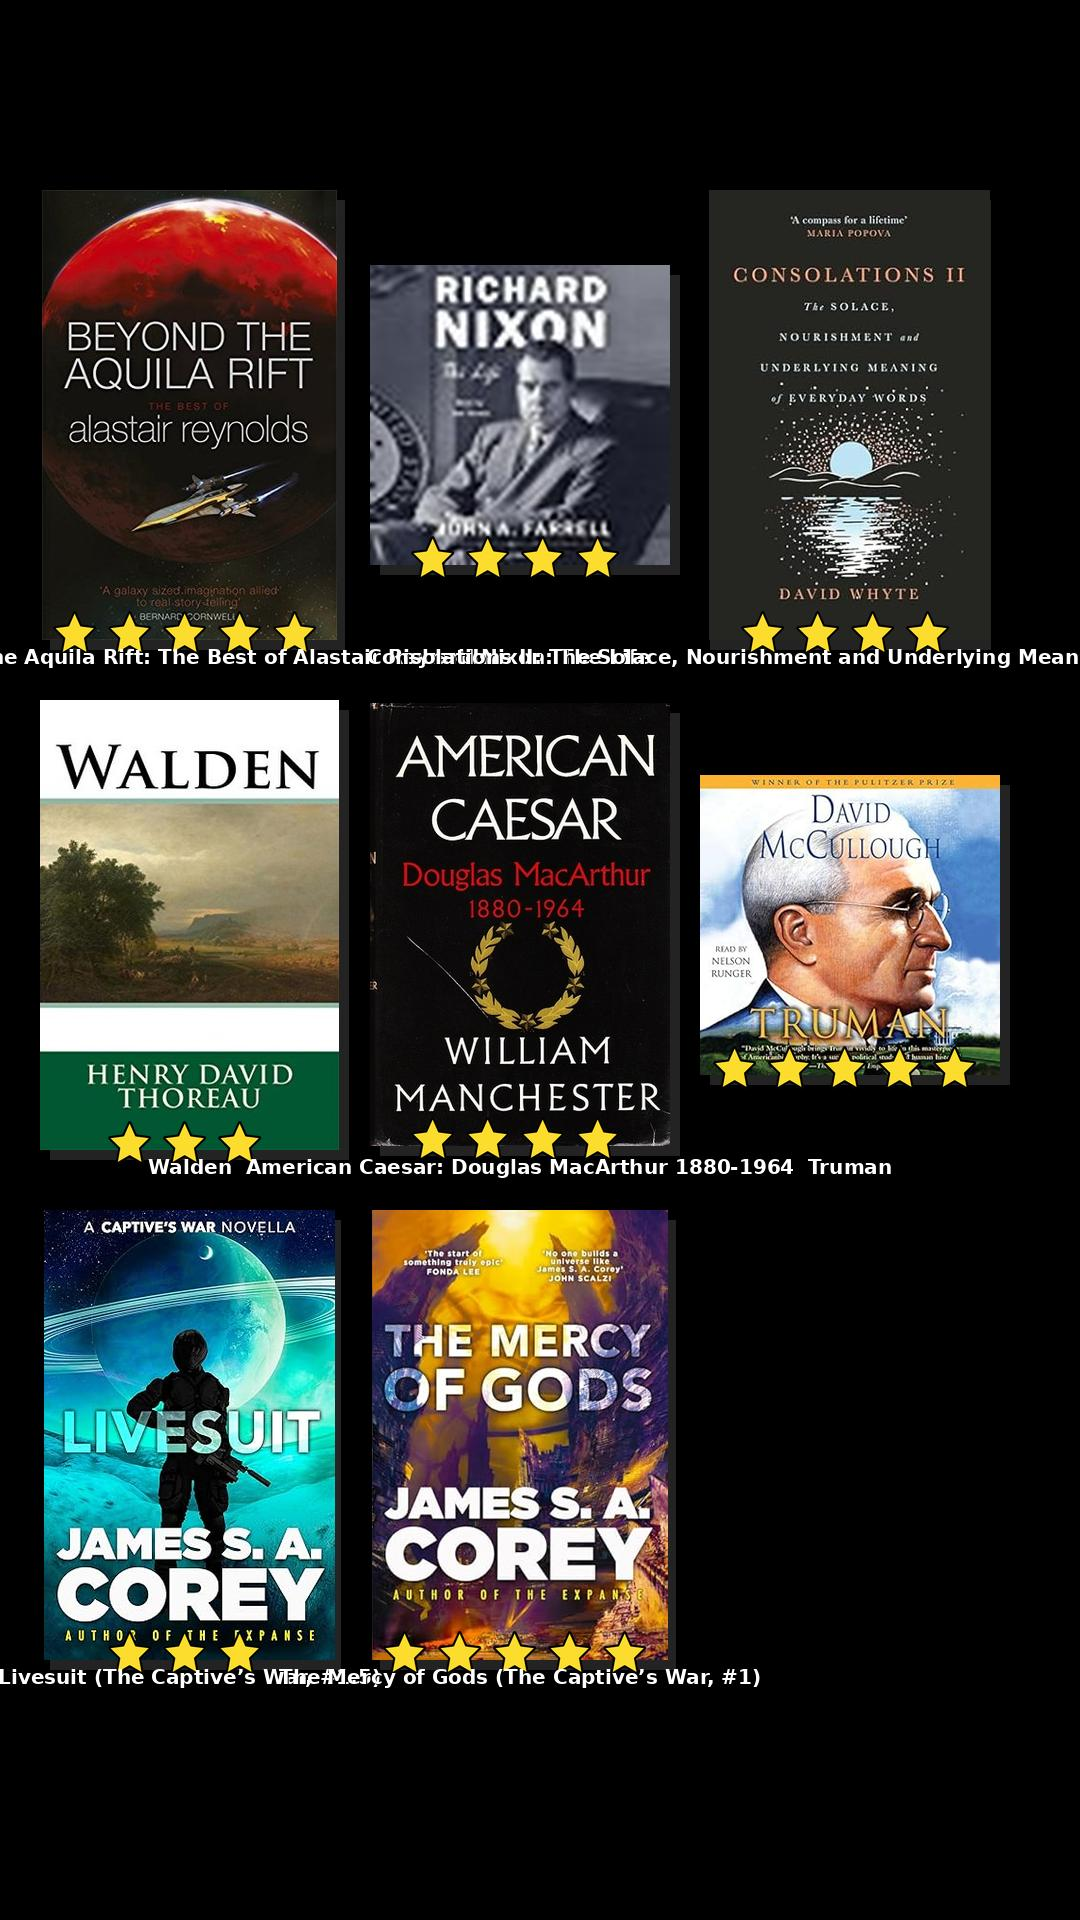
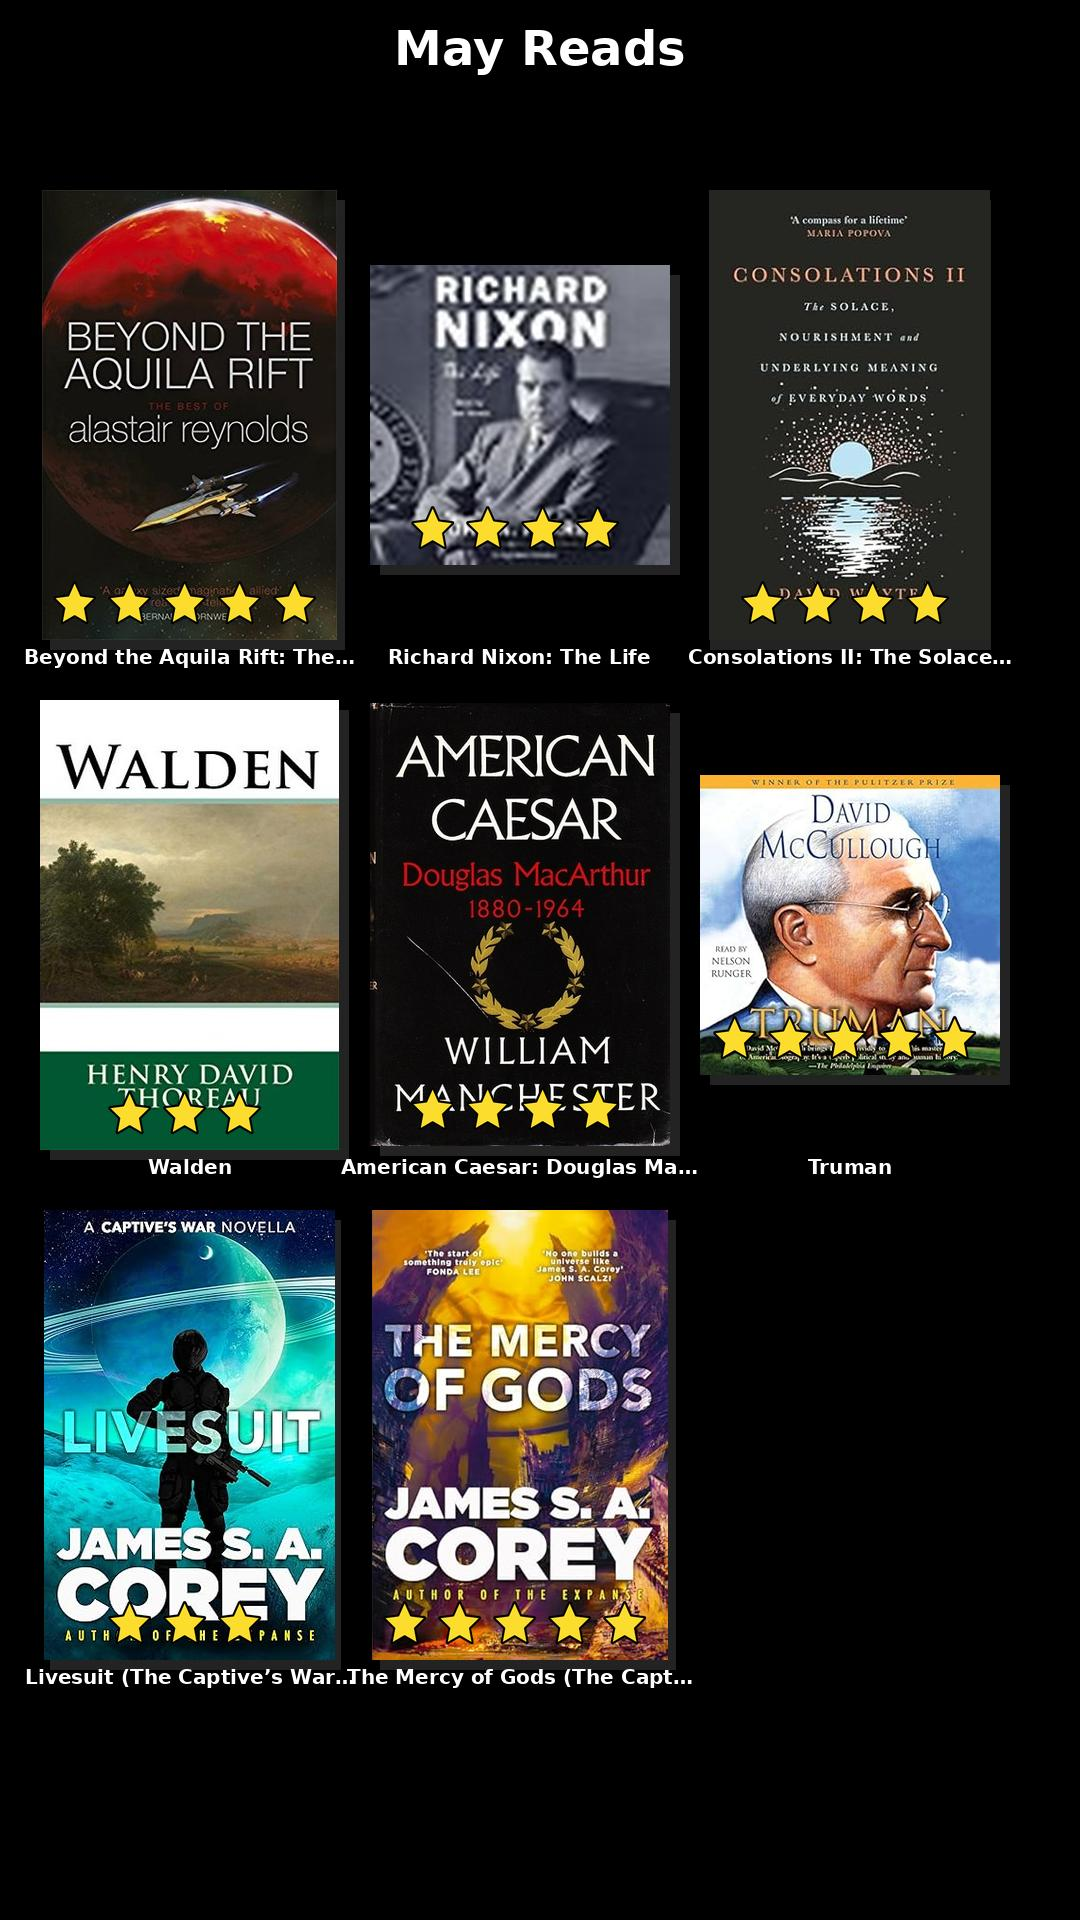
Simple web app is working

diff --git a/app.py b/app.py
@@ -9,7 +9,8 @@ from dateutil import parser as date_parser  # Add to requirements.txt
 from calendar import monthrange
 from PIL import Image, ImageDraw, ImageFont, ImageFilter
 import PIL
-import subprocess
+from collections import defaultdict
+
 
 # Configuration
 FEED_URL = os.getenv("GOODREADS_RSS_URL", "https://www.goodreads.com/review/list_rss/5672051?shelf=read")
@@ -58,6 +59,20 @@ def parse_feed(file_path):
     root = tree.getroot()
     return root.findall("channel/item")
 
+def group_books_by_month(items):
+    books_by_month = defaultdict(list)
+    for item in items:
+        user_read_at = item.findtext("user_read_at")
+        if not user_read_at:
+            continue
+        try:
+            read_date = date_parser.parse(user_read_at).replace(tzinfo=None)
+        except Exception:
+            continue
+        year, month = read_date.year, read_date.month
+        books_by_month[(year, month)].append(item)
+    return books_by_month
+
 def get_books_read_last_month(items):
     now = datetime.now()
     first_of_this_month = datetime(now.year, now.month, 1)
@@ -104,7 +119,7 @@ def download_cover_if_missing(item):
     else:
         print(f"Cover for '{book_title}' (ID: {book_id}) already exists.")
 
-def create_collage(books):
+def create_collage(books, year, month):
     canvas_width, canvas_height = 1080, 1920
     margin = 20
     padding = 30
@@ -216,10 +231,22 @@ def create_collage(books):
         # Foreground
         draw.text((title_x, title_y), title_text, font=title_font, fill="white")
 
+    # Add header title
+    header_text = f"{datetime(year, month, 1).strftime('%B')} Reads"
+    header_font_size = 48
+    try:
+        header_font = ImageFont.truetype("DejaVuSans-Bold.ttf", size=header_font_size)
+    except Exception:
+        header_font = ImageFont.load_default()
+
+    header_bbox = draw.textbbox((0, 0), header_text, font=header_font)
+    header_w = header_bbox[2] - header_bbox[0]
+    header_x = (canvas_width - header_w) // 2
+    draw.text((header_x + 1, margin + 1), header_text, font=header_font, fill="black")
+    draw.text((header_x, margin), header_text, font=header_font, fill="white")
+
     # Save the collage with YYYY-MM.jpg format for last month
-    now = datetime.utcnow()
-    last_month = now.replace(day=1) - timedelta(days=1)
-    collage_filename = f"{last_month.strftime('%Y-%m')}.jpg"
+    collage_filename = f"{year:04d}-{month:02d}.jpg"
     output_path = Path("collages") / collage_filename
     output_path.parent.mkdir(exist_ok=True)
 
@@ -231,14 +258,27 @@ def create_collage(books):
 # Run logic
 if __name__ == "__main__":
     feed_file = get_feed()
-
     items = parse_feed(feed_file)
     print(f"Feed file: {feed_file}")
 
-    books_last_month = get_books_read_last_month(items)
+    books_by_month = group_books_by_month(items)
 
-    print(f"Found {len(books_last_month)} books read last month.")
-    for book in books_last_month:
-        download_cover_if_missing(book)
+    all_books = [book for books in books_by_month.values() for book in books]
+    print(f"Total books with read dates: {len(all_books)}")
 
-    create_collage(books_last_month)
+    # Download covers (once per book)
+    seen_ids = set()
+    for book in all_books:
+        book_id = book.findtext("book_id")
+        if book_id and book_id not in seen_ids:
+            download_cover_if_missing(book)
+            seen_ids.add(book_id)
+
+    # Create a collage per month
+    for (year, month), books in sorted(books_by_month.items()):
+        print(f"Creating collage for {datetime(year, month, 1).strftime('%B %Y')} ({len(books)} books)")
+        create_collage(books, year, month)
+
+    # Start server
+    import subprocess
+    subprocess.run(["python", "server.py"])

diff --git a/server.py b/server.py
@@ -1,0 +1,56 @@
+from flask import Flask, send_from_directory, render_template_string
+from pathlib import Path
+
+app = Flask(__name__)
+COLLAGE_DIR = Path("collages")
+
+HTML_TEMPLATE = """
+<!DOCTYPE html>
+<html>
+<head>
+    <title>Goodreads Collages</title>
+    <style>
+        body {
+            font-family: sans-serif;
+            background: #111;
+            color: #eee;
+            text-align: center;
+        }
+        img {
+            width: 200px;
+            margin: 10px;
+            border: 2px solid #444;
+        }
+        a {
+            text-decoration: none;
+            color: #ccc;
+        }
+    </style>
+</head>
+<body>
+    <h1>📚 Goodreads Collages</h1>
+    {% for filename in files %}
+        <div>
+            <a href="/collages/{{ filename }}" target="_blank">
+                <img src="/collages/{{ filename }}" alt="{{ filename }}">
+            </a>
+        </div>
+    {% endfor %}
+</body>
+</html>
+"""
+
+@app.route("/")
+def index():
+    files = sorted(
+        [f.name for f in COLLAGE_DIR.glob("*.jpg")],
+        reverse=True  # newest first
+    )
+    return render_template_string(HTML_TEMPLATE, files=files)
+
+@app.route("/collages/<path:filename>")
+def collage_file(filename):
+    return send_from_directory(COLLAGE_DIR, filename)
+
+if __name__ == "__main__":
+    app.run(host="0.0.0.0", port=8000)
